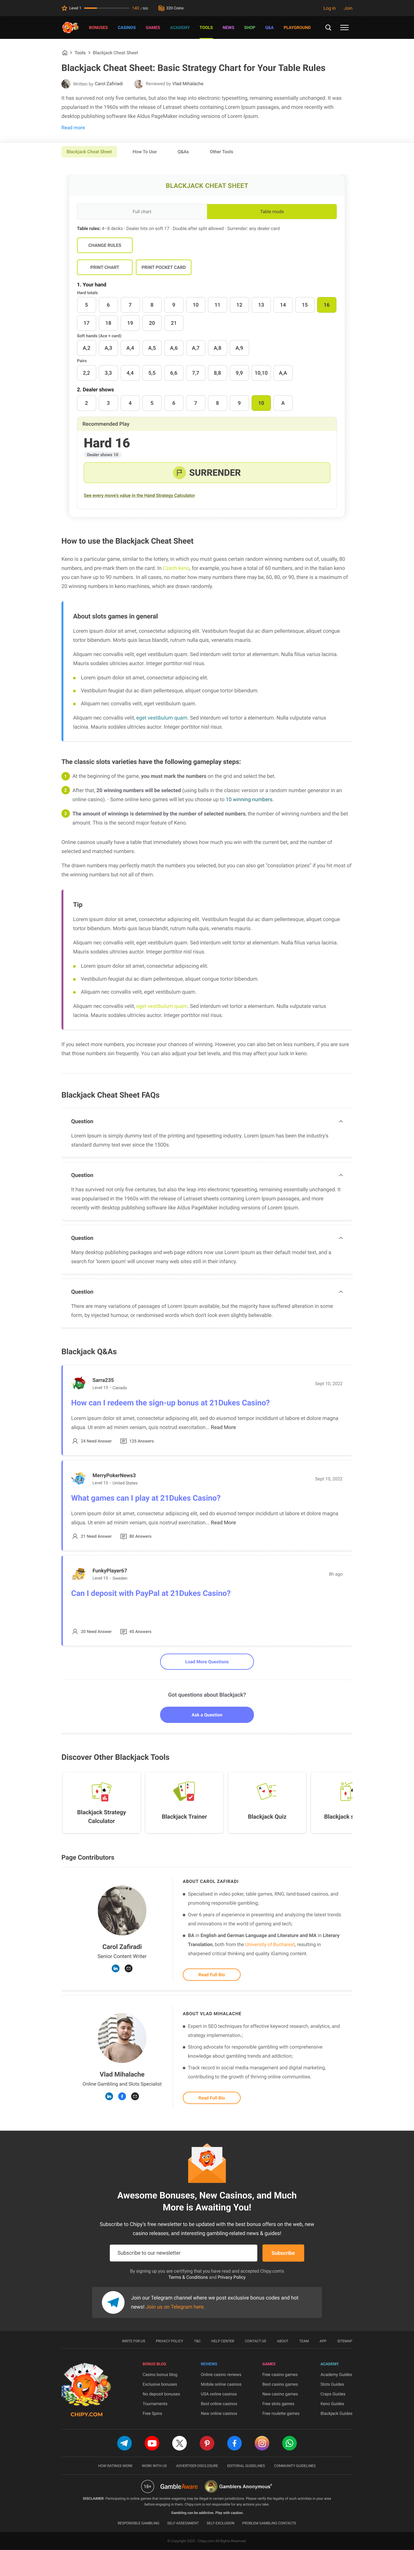
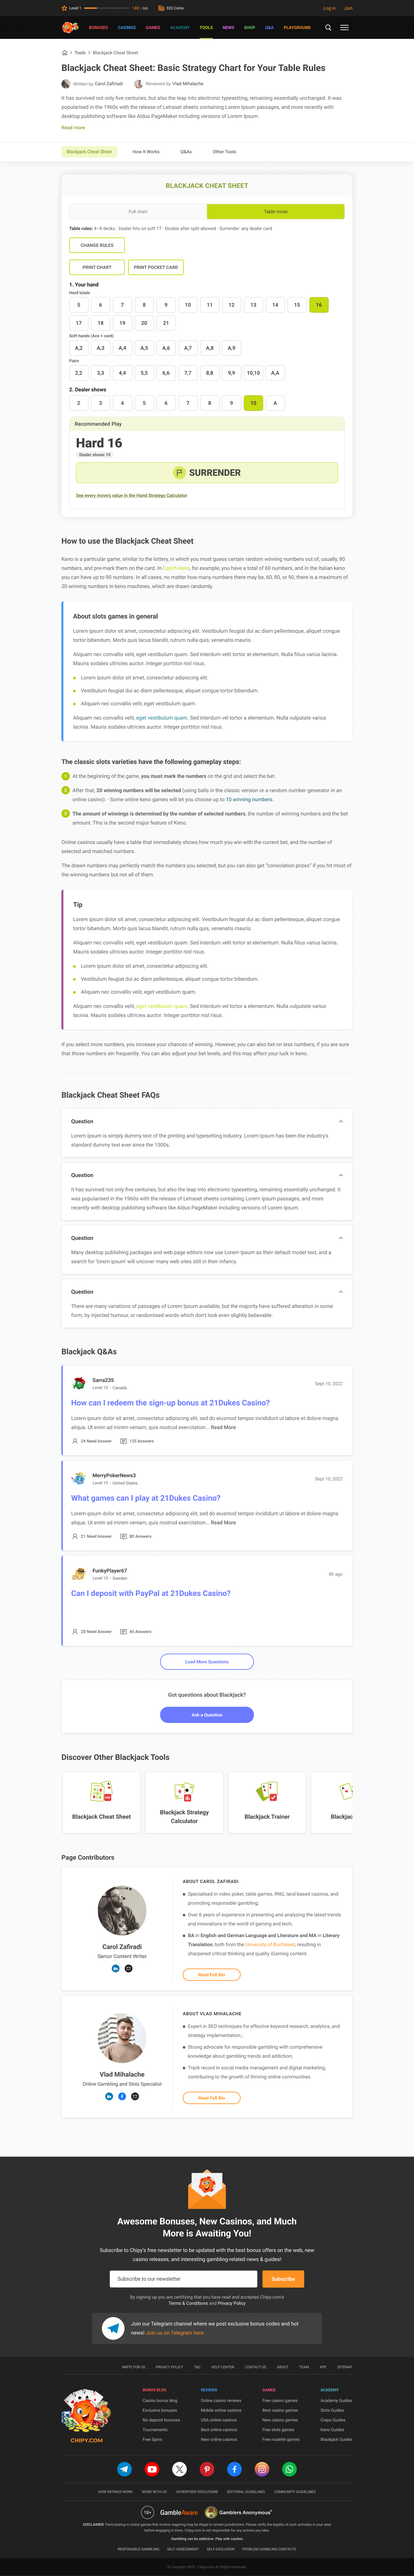
D-084/D-085: full pages on Calculator page template (4 PNGs re-exported), visual-spec §7, BFC-55465 draft = live Jira + 852 vs 900 note + chart columns; S-22 backlog

diff --git a/docs/jira/BFC-55465-tool-layout.html b/docs/jira/BFC-55465-tool-layout.html
@@ -8,7 +8,7 @@
 <hr>
 
 <h3>1. Figma</h3>
-<p>File and page: <a href="https://www.figma.com/design/mRGsMU76MmiKMnzQkwYKgG/Tools---Calculators?node-id=14034-33811">Tools---Calculators, page "-&gt; Blackjack Cheat Sheet"</a> (node 14034:33811). Frame names follow "CS / &lt;screen&gt; / &lt;width&gt;". Link pattern: the same URL with node-id=&lt;id with "-" instead of ":"&gt;.</p>
+<p>File and page: <a href="https://www.figma.com/design/mRGsMU76MmiKMnzQkwYKgG/Tools---Calculators?node-id=14034-33811">Tools---Calculators, page "-&gt; Blackjack Cheat Sheet"</a> (node 14034:33811). Frame names follow "CS / &lt;screen&gt; / &lt;width&gt;".</p>
 <table>
 <tr><th>Screen</th><th>1280</th><th>390</th></tr>
 <tr><td>Full page</td><td><a href="https://www.figma.com/design/mRGsMU76MmiKMnzQkwYKgG/Tools---Calculators?node-id=14047-648859">14047:648859</a></td><td><a href="https://www.figma.com/design/mRGsMU76MmiKMnzQkwYKgG/Tools---Calculators?node-id=14048-648735">14048:648735</a></td></tr>
@@ -21,23 +21,24 @@
 <tr><td>Table mode: hand picked</td><td><a href="https://www.figma.com/design/mRGsMU76MmiKMnzQkwYKgG/Tools---Calculators?node-id=14061-13759">14061:13759</a></td><td><a href="https://www.figma.com/design/mRGsMU76MmiKMnzQkwYKgG/Tools---Calculators?node-id=14061-14223">14061:14223</a></td></tr>
 <tr><td>Table mode: result</td><td><a href="https://www.figma.com/design/mRGsMU76MmiKMnzQkwYKgG/Tools---Calculators?node-id=14061-13883">14061:13883</a></td><td><a href="https://www.figma.com/design/mRGsMU76MmiKMnzQkwYKgG/Tools---Calculators?node-id=14061-14345">14061:14345</a></td></tr>
 <tr><td>Table mode: result, changed for new rules</td><td><a href="https://www.figma.com/design/mRGsMU76MmiKMnzQkwYKgG/Tools---Calculators?node-id=14061-14048">14061:14048</a></td><td><a href="https://www.figma.com/design/mRGsMU76MmiKMnzQkwYKgG/Tools---Calculators?node-id=14061-14508">14061:14508</a></td></tr>
-<tr><td>Table mode: rules collapsed (390 only; 1280 shows the same in the Table-mode frames above)</td><td>-</td><td><a href="https://www.figma.com/design/mRGsMU76MmiKMnzQkwYKgG/Tools---Calculators?node-id=14061-658319">14061:658319</a></td></tr>
-<tr><td>Swipe cue (390 only)</td><td>-</td><td><a href="https://www.figma.com/design/mRGsMU76MmiKMnzQkwYKgG/Tools---Calculators?node-id=14061-658393">14061:658393</a></td></tr>
-<tr><td>Print: full page, A4 portrait</td><td colspan="2"><a href="https://www.figma.com/design/mRGsMU76MmiKMnzQkwYKgG/Tools---Calculators?node-id=14063-15139">14063:15139</a></td></tr>
-<tr><td>Print: pocket card, A4 landscape (2 x A6)</td><td colspan="2"><a href="https://www.figma.com/design/mRGsMU76MmiKMnzQkwYKgG/Tools---Calculators?node-id=14065-16035">14065:16035</a></td></tr>
-<tr><td>Component "CS / Move" (move cell, States incl. Changed 14071:16537–16557)</td><td colspan="2"><a href="https://www.figma.com/design/mRGsMU76MmiKMnzQkwYKgG/Tools---Calculators?node-id=14047-86">14047:86</a></td></tr>
-<tr><td>Component "CS / Pick" (table-mode button)</td><td colspan="2"><a href="https://www.figma.com/design/mRGsMU76MmiKMnzQkwYKgG/Tools---Calculators?node-id=14060-14892">14060:14892</a></td></tr>
+<tr><td>Table mode: rules collapsed (390 only; 1280 shows the same in the Table-mode frames above)</td><td>–</td><td><a href="https://www.figma.com/design/mRGsMU76MmiKMnzQkwYKgG/Tools---Calculators?node-id=14061-658319">14061:658319</a></td></tr>
+<tr><td>Swipe cue (390 only)</td><td>–</td><td><a href="https://www.figma.com/design/mRGsMU76MmiKMnzQkwYKgG/Tools---Calculators?node-id=14061-658393">14061:658393</a></td></tr>
+<tr><td>Print: full page, A4 portrait</td><td><a href="https://www.figma.com/design/mRGsMU76MmiKMnzQkwYKgG/Tools---Calculators?node-id=14063-15139">14063:15139</a></td><td>–</td></tr>
+<tr><td>Print: pocket card, A4 landscape (2 x A6)</td><td><a href="https://www.figma.com/design/mRGsMU76MmiKMnzQkwYKgG/Tools---Calculators?node-id=14065-16035">14065:16035</a></td><td>–</td></tr>
+<tr><td>Component "CS / Move" (move cell, States incl. Changed 14071:16537–16557)</td><td><a href="https://www.figma.com/design/mRGsMU76MmiKMnzQkwYKgG/Tools---Calculators?node-id=14047-86">14047:86</a></td><td>–</td></tr>
+<tr><td>Component "CS / Pick" (table-mode button)</td><td><a href="https://www.figma.com/design/mRGsMU76MmiKMnzQkwYKgG/Tools---Calculators?node-id=14060-14892">14060:14892</a></td><td>–</td></tr>
 </table>
 
 <h3>2. Page structure (top to bottom)</h3>
+<p>The page uses the same template as the <a href="https://www.figma.com/design/mRGsMU76MmiKMnzQkwYKgG/Tools---Calculators?node-id=12386-8654">Blackjack Strategy Calculator page</a>: page background #f9fafa, the top section and in-page nav share one soft shadow (no shadow on the nav itself), "Read more" in olive #859c2e, and 120 px between the page content and the footer (desktop).</p>
 <table>
 <tr><th>#</th><th>Block</th><th>Library component</th><th>On our page (1280 / 390)</th></tr>
 <tr><td>1</td><td>Top section. Breadcrumb "Blackjack Cheat Sheet", H1 "Blackjack Cheat Sheet: Basic Strategy Chart for Your Table Rules".</td><td>"Top section full width": Desktop 12625:94021, Mobile 12625:94028</td><td>14070:16438 / 14070:660152</td></tr>
-<tr><td>2</td><td>In-page nav: "Blackjack Cheat Sheet", "How to use", "Q&amp;As", "Other tools". The component shows them in title case. Same as on the Quiz full page.</td><td>12625:95136 (desktop), 12625:95141 (mobile)</td><td>14070:16495 / 14070:660208</td></tr>
+<tr><td>2</td><td>In-page nav: "Blackjack Cheat Sheet", "How it works", "Q&amp;As", "Other tools". The component shows them in title case. Same as on the Strategy Calculator page.</td><td>12625:95136 (desktop), 12625:95141 (mobile)</td><td>14070:16495 / 14070:660208</td></tr>
 <tr><td>3</td><td>The tool (sections 3 and 4)</td><td>Built for this page (components CS / Move, CS / Pick)</td><td>see section 1</td></tr>
-<tr><td>4</td><td>How to use block: "How to use the Blackjack Cheat Sheet", info and tip callouts, steps, then "Blackjack Cheat Sheet FAQs". Real copy comes from the content brief BFC-55461.</td><td>Rebuilt from the Quiz frames 13996:5606 (desktop) / 13996:6184 (mobile), using Callout box 12625:96904 / 12625:96906, Numbered list 6506:39722, FAQs Widget 12625:104305 / 12625:104310 (see section 7)</td><td>14070:16526 / 14070:660239</td></tr>
-<tr><td>5</td><td>Q&amp;As: existing section, standard state (3 questions + Load More), as on the Quiz page</td><td>Q&amp;As section</td><td>14048:160643 / 14049:649314</td></tr>
-<tr><td>6</td><td>Other Blackjack Tools carousel: Calculator, Trainer, Quiz, Simulator (heading "Discover Other Blackjack Tools")</td><td>Carousel</td><td>14048:160760 / 14049:649432</td></tr>
+<tr><td>4</td><td>How to use block: "How to use the Blackjack Cheat Sheet", info and tip callouts, steps, then "Blackjack Cheat Sheet FAQs". Real copy comes from the content brief BFC-55461.</td><td>Same blocks as the Strategy Calculator page lower content, using Callout box 12625:96904 / 12625:96906, Numbered list 6506:39722, FAQs Widget 12625:104305 / 12625:104310 (see section 7)</td><td>14070:16526 / 14070:660239</td></tr>
+<tr><td>5</td><td>Q&amp;As: existing section, standard state (3 questions + Load More)</td><td>Q&amp;As section</td><td>14048:160643 / 14049:649314</td></tr>
+<tr><td>6</td><td>Other Blackjack Tools carousel: Cheat Sheet, Quiz, Trainer, Calculator, Simulator (heading "Discover Other Blackjack Tools")</td><td>Carousel</td><td>14048:160760 / 14049:649432</td></tr>
 <tr><td>7</td><td>Page contributors</td><td>Authors section</td><td>14048:161371 / 14049:650030</td></tr>
 </table>
 <p>At 390 the Mobile variants are used. No empty slot is shown anywhere (see "v2 note", section 7).</p>
@@ -45,13 +46,14 @@
 <h3>3. Tool layout at 1280</h3>
 <p>Top to bottom inside the tool card:</p>
 <ul>
-<li><b>Shell</b>: same shell as the CHIPY Quiz and Trainer. Card 852 px wide on desktop (804 px content, 24 px padding), 16 px radius, soft shadow, no border. Header band #f9fafa with the title "BLACKJACK CHEAT SHEET" (centred, uppercase, bold, brand olive #859c2e, token brand/lime-text, as the Quiz and Trainer shell titles). The printed title is different: it stays #404040.</li>
-<li><b>Mode switch</b>: "Full chart | Table mode", segmented control, 48 px high, Full chart selected first.</li>
+<li><b>Shell</b>: same shell as the CHIPY Strategy Calculator, Quiz and Trainer. Card uses the full content width, 900 px on desktop (852 px content, 24 px padding), 16 px radius, soft shadow, no border. Header band #f9fafa with the title "BLACKJACK CHEAT SHEET" (centred, uppercase, bold, brand olive #859C2E, same as the Quiz and Trainer).</li>
+<li><b>Mode switch</b>: "Full chart / Table mode", segmented control, 48 px high, Full chart selected first.</li>
 <li><b>Rule panel</b>: 4 controls in 2 columns (Decks, Dealer on soft 17, Double after split, Surrender), label above each, segmented, 48 px high.</li>
 <li><b>Rules sentence</b> ("Table rules: ...") and, when shown, the <b>count line</b> with a DISMISS button (box with a 1 px dark border).</li>
 <li><b>Print buttons</b>: "PRINT CHART" and "PRINT POCKET CARD" side by side. Secondary style: lime 2 px outline, upper case.</li>
 <li><b>Legend</b>: five pills (icon + word) for Hit, Stand, Double, Split, Surrender.</li>
-<li><b>Chart</b>: three tables (Hard hands, Soft hands, Pairs), each with H2, one-line sub-line, then the grid. The grid has a pinned left column "Your hand" (84 px), a header row of 36 px and dealer columns 2 to A. At 1280 all 10 dealer columns are visible (71 px each).</li>
+<li><b>Chart</b>: three tables (Hard hands, Soft hands, Pairs), each with H2, one-line sub-line, then the grid. The grid has a pinned left column "Your hand" (84 px), a header row of 36 px and dealer columns 2 to A. At 1280 all 10 dealer columns are visible.</li>
+<li>Desktop chart: the 10 dealer columns share the width left after the 84 px 'Your hand' column equally (≈76 px each at 900 px). Mobile keeps fixed-width columns with horizontal scroll.</li>
 <li><b>Rows are always 52 px high</b>, whatever the rules, markers or open panels. Each cell: move icon (20 px) above the move word, on the move colour.</li>
 <li><b>Changed marker</b> (after a rules change): dashed 2 px inner outline plus a 12 x 12 px solid triangle in the top-right corner. The cell does not grow. No text label in the cell.</li>
 <li><b>Reason panel</b>: opens inline directly under the table that was tapped (one per table). Light green header with title (e.g. "Hard 16 vs dealer 10") and a CLOSE button. Body: move chip (icon + word), reason, then the note in a separate line when there is one. The tapped cell shows a 3 px dark outline (white on Surrender).</li>
@@ -74,13 +76,14 @@
 <p>Font: Roboto (weights 400 to 900). Full values for every element are in the Figma frames; the main ones are below.</p>
 <table>
 <tr><th>Token</th><th>Value</th><th>Used for</th></tr>
-<tr><td>Heading text</td><td>#404040</td><td>Labels, cell text, chart headings, printed title</td></tr>
-<tr><td>Brand olive (brand/lime-text)</td><td>#859c2e</td><td>Shell title on screen (as Quiz and Trainer), Split cell fill</td></tr>
+<tr><td>Page background</td><td>#f9fafa</td><td>Page behind all sections (same as the Strategy Calculator page)</td></tr>
+<tr><td>Heading text</td><td>#404040</td><td>Labels, cell text, chart headings</td></tr>
 <tr><td>Body text</td><td>#5e6166</td><td>Sub-lines, rules sentence, button text, unselected toggle text</td></tr>
 <tr><td>Ink</td><td>#1a1a1a</td><td>Reason text, count line, step headings</td></tr>
 <tr><td>Surface</td><td>#ffffff / #f9fafa</td><td>Cards, cells / header band, row labels, unselected segment</td></tr>
 <tr><td>Line</td><td>#e6e6e6</td><td>Grid lines, outlines, card borders</td></tr>
 <tr><td>Brand lime</td><td>#c4db11</td><td>Selected segment, button outline, Double</td></tr>
+<tr><td>Brand olive</td><td>#859c2e</td><td>Shell title, Split, "Read more"</td></tr>
 <tr><td>Link green</td><td>#5f7220</td><td>Calculator link</td></tr>
 </table>
 <table>
@@ -94,7 +97,7 @@
 <p>Same icons as the Trainer and Calculator (CS / Move uses the Action-button icons, not the library "2x" and bars set).</p>
 <table>
 <tr><th>Element</th><th>Weight / size</th></tr>
-<tr><td>Shell title (screen, #859c2e)</td><td>700 / 20 px (390: 18), upper case, letter-spacing 0.02em</td></tr>
+<tr><td>Shell title</td><td>700 / 20 px (390: 18), upper case, letter-spacing 0.02em, #859c2e</td></tr>
 <tr><td>Rule labels</td><td>500 / 16</td></tr>
 <tr><td>Segmented text, rules sentence</td><td>400 / 14 (3-option rows: selected 700)</td></tr>
 <tr><td>Buttons</td><td>700 / 14, upper case</td></tr>
@@ -109,30 +112,32 @@
 <ul>
 <li>Every tap target is at least 44 px high and wide: segments, buttons, cells (52 px rows), pick buttons (48 px) and the Calculator link (44 px).</li>
 <li>Colour is never the only signal. Every cell shows the move word and icon. Changed cells have a dashed outline and corner triangle and a screen-reader text ("changed for your new rules"). The Recommended Play marker is a text box with a dashed border. The pocket card uses letters.</li>
-<li>Contrast: the shell title is brand olive #859c2e on #f9fafa = 2.96:1. This is below 4.5:1 and was accepted as the brand choice (D-083), the same as the Quiz and Trainer shells. Unselected toggle text is #5e6166 on purpose, because the library grey #757575 is only 4.41:1 (see section 7).</li>
+<li>Contrast: the shell title uses the brand olive #859C2E on #f9fafa (2.96:1), the same as the other CHIPY tool shells; this is an accepted brand choice. Chart headings #404040 on #f9fafa = 9.9:1. Unselected toggle text is #5e6166 on purpose, because the library grey #757575 is only 4.41:1 (see section 7).</li>
 <li>Focus ring: 3 px #404040 inside the control. On Surrender cells it is white, because dark on dark is invisible.</li>
 <li>The icons are decoration only (hidden from screen readers). The word carries the meaning.</li>
 </ul>
 
 <h3>7. Notes for the design-system owner</h3>
-<p>These are not part of the Cheat Sheet build. They are issues found in the library while designing it (decision D-072).</p>
+<p>These are not part of the Cheat Sheet build. They are issues found in the library while designing it.</p>
 <ul>
 <li><b>In-page nav</b> items are 35 px high. Below the 44 px target.</li>
 <li><b>Breadcrumb</b> targets are 15 to 16 px high.</li>
 <li><b>"Read more"</b> is 26 px high.</li>
 <li><b>Segmented control, inactive label</b> is #757575 on #f9fafa = 4.41:1, just under 4.5:1. The Cheat Sheet uses #5e6166 instead.</li>
-<li><b>Shell title</b>: brand olive #859c2e on #f9fafa is 2.96:1 in the Quiz, Trainer and Cheat Sheet shells. Kept as the brand look (D-083). Worth a review of the olive text token.</li>
+<li><b>Tool shell title</b> in brand olive #859C2E on #f9fafa is 2.96:1 on all CHIPY tool shells, just under the 3:1 minimum for large bold text.</li>
 </ul>
-<p><b>Proposal (D-073):</b> make "Lower content" a real library component with a Desktop and a Mobile variant. It is the block with How to use, info and tip callouts, steps and FAQs (today Quiz 13996:5606 and 13996:6184). Every tool page needs it, and today it is a one-off block on the Quiz page, so for this page it was rebuilt from those frames.</p>
-<p><b>v2 note:</b> "Learn this chart" (memory rules) is planned directly below the tool. No slot is rendered at launch (D-070, D-075). The page flows from the tool straight to How to use.</p>
+<p><b>Proposal:</b> make "Lower content" a real library component with a Desktop and a Mobile variant. It is the block with How to use, info and tip callouts, steps and FAQs. Every tool page needs it, and today it is rebuilt by hand on each page.</p>
+<p><b>v2 note:</b> "Learn this chart" (memory rules) is planned directly below the tool. No slot is rendered at launch. The page flows from the tool straight to How to use.</p>
 
 <h3>8. Differences between prototype and Figma (accepted)</h3>
 <ul>
 <li>Font: the prototype is one offline file and does not download Roboto. Where Roboto is not installed it uses the system font, so some lines are a little wider and a few blocks are 15 to 70 px different in height.</li>
-<li>Row labels in the chart show the engine text with a hyphen ("5-7", "18-21"). The reason panel title uses an en dash ("Hard 18–21"). Strings are not changed (D-076).</li>
+<li>Row labels in the chart show the engine text with a hyphen ("5-7", "18-21"). The reason panel title uses an en dash ("Hard 18–21"). Strings are not changed.</li>
 <li>The dashed outline of changed cells uses the browser's default dash pattern, so it looks slightly bolder than Figma.</li>
 <li>Print, full page: rows are 6 mm in the prototype (19 pt in Figma) so the page fits one Letter sheet.</li>
 <li>Unselected toggle text is #5e6166 in the prototype and in this task's tokens (the Figma frames show the library #757575, see section 7).</li>
+<li>The prototype shows the tool only; the page around it (top section, nav, lower content, etc.) is defined by the Figma full-page frames.</li>
+<li>The tool-only Figma frames and the HTML prototype show the tool at 852 px. The full-page frames and this spec are the source of truth: the tool shell is 900 px (852 content + 24 px padding each side).</li>
 </ul>
 
 <h3>Developer notes</h3>
@@ -157,7 +162,9 @@
 <h2>Acceptance Criteria</h2>
 <ul>
 <li>At 1280 and at 390 the page and the tool match the Figma frames in section 1: order, spacing, colours, type and move palette. Differences listed in section 8 are accepted.</li>
+<li>The page uses the Strategy Calculator page template: #f9fafa background, one shared shadow under the top section and in-page nav, olive "Read more", nav label "How it works".</li>
 <li>The page has the order and components from section 2, with no empty slot.</li>
+<li>On desktop the tool shell is the full 900 px content width.</li>
 <li>At 390 the page never scrolls sideways. Only each chart scrolls inside its own box, with "Your hand" pinned.</li>
 <li>At 390 each chart shows "Swipe for dealer 6–A" and the right fade while columns are hidden, and hides both at the end of the scroll. Neither shows at 1280.</li>
 <li>Chart rows are 52 px high in every state: default, rules changed, panel open, 36 rule sets.</li>
@@ -166,7 +173,7 @@
 <li>The reason panel opens directly under its table and shows the title, the move chip, the reason, and the note on its own line only when there is one.</li>
 <li>Table mode, empty, hand picked, result and result changed frames are matched. At 1280 and 390 the rules are folded behind "CHANGE RULES".</li>
 <li>All tap targets are at least 44 px. The focus ring is visible on every control, white on Surrender cells.</li>
-<li>The shell title on screen is brand olive #859c2e (as the Quiz and Trainer shells). Chart headings and labels are #404040. Unselected toggle text is #5e6166.</li>
+<li>The shell title is brand olive #859C2E. Chart headings are #404040. Unselected toggle text is #5e6166.</li>
 <li>Print, full page: one page on A4 and on US Letter, portrait, centred, title #404040, grid 0.75 pt #5e6166, no on-screen controls.</li>
 <li>Print, pocket card: one landscape sheet on A4 and on US Letter, two A6 panels side by side with a dashed fold line, centred, letters readable in black and white.</li>
 <li>The changed markers and count line never appear in print.</li>

diff --git a/docs/figma/visual-spec.md b/docs/figma/visual-spec.md
@@ -65,12 +65,12 @@ Changed cell (State=Changed): `outline: 2px dashed <colour>; outline-offset: -2p
 | "Changed for your new rules" marker | 700 / 14 | #1a1a1a | |
 
 ## 3. Sizes and spacing (1280)
-- **Shell**: width 852 (content 804), background #fff, radius 16, `box-shadow: 0 -1px 20px 2px rgba(0,0,0,.10)`, no border. Header band #f9fafa, padding 24 20 20 20. Body padding 24, gap 20 between blocks.
+- **Shell**: tool-only frames and prototype: width 852 (content 804); on the page 900 (content 852) is the truth, see §7 (D-085). background #fff, radius 16, `box-shadow: 0 -1px 20px 2px rgba(0,0,0,.10)`, no border. Header band #f9fafa, padding 24 20 20 20. Body padding 24, gap 20 between blocks.
 - **Rule panel**: 2 columns, column gap 20, row gap 16; label → control gap 8.
 - **Segmented controls**: height 48, radius 6, `1px solid #e6e6e6` (inside), segments equal width, no gaps; selected fill #c4db11, unselected #f9fafa; option padding 12 16 (3-option rows: padding 0 8).
 - **Buttons** (secondary): height 48, padding 16 24, `2px solid #c4db11`, radius 6, transparent fill, gap 10 between print buttons.
 - **Legend**: wrap, gap 10 (row gap 8). Pill: height 32, padding 5 10 5 6, gap 6, radius 999, fill per move; Hit pill `1px solid #e6e6e6`.
-- **Chart box**: `border: 1px solid #e6e6e6`, radius 12, overflow hidden; grid lines 1px #e6e6e6 (cells separated by 1px). Pinned column 84px. Header row 36px. Body rows **52px always**. Dealer columns at 1280: 71px (84 + 1 + 10×71 + 9 = 804). Header/row-label cells #f9fafa. Cell: icon 20 above word, gap 2, side padding 2. Section gap between charts 28; H2 → sub 4, sub → box 14 (390: sub → swipe cue 4, cue → box 10).
+- **Chart box**: `border: 1px solid #e6e6e6`, radius 12, overflow hidden; grid lines 1px #e6e6e6 (cells separated by 1px). Pinned column 84px. Header row 36px. Body rows **52px always**. Dealer columns at 1280: 71px in the 852 shell (84 + 1 + 10×71 + 9 = 804); in the 900 shell they share the width after the 84px column equally (≈75.8px). 390 keeps fixed columns + scroll. Header/row-label cells #f9fafa. Cell: icon 20 above word, gap 2, side padding 2. Section gap between charts 28; H2 → sub 4, sub → box 14 (390: sub → swipe cue 4, cue → box 10).
 - **Reason panel**: `1px solid #e6e6e6`, radius 12. Head: fill #b4ca09 @15%, padding 8 8 8 16, gap 12 (title + Close button). Body: padding 14 16 16 16, gap 12. Move chip: radius 999, fill #c4db11 @20%, `1px solid #c4db11`, padding 6 14 6 8, gap 10; icon circle holds a 22px icon.
 - **Count line box (diff note)**: #fff, `1px solid #1a1a1a`, radius 8, padding 6 8 6 14, gap 12 (text + Dismiss button).
 - **Table mode**: pick area gap 18 between steps; step heading → groups gap 8; group label → grid gap 6; pick grid wrap, gap 8. Pick button 60×48 (390: 62×48), radius 8, `1px solid rgba(0,0,0,.18)`, #fff; selected #c4db11. "Change rules" = secondary button.
@@ -86,6 +86,17 @@ Page side margin 8 → shell 374 wide; body padding 24 16 16 16; title 18. Rule 
 ## 6. Icons
 Same glyphs as Trainer/Calculator (Figma local "Icons" set; `prototype/src/icons`): Hit = action-hit (pointer click), Stand = action-stand (open hand), Double = action-double (two vertical bars), Split = action-split (↔ arrows), Surrender = action-surrender (flag). Colour = the move's text colour.
 Sizes: chart cell 20, legend pill 20, reason chip 22, Recommended Play circle 26, print legend 16, print cell 9; pocket card uses letters, no icons.
+
+## 7. Page template (full-page frames, D-084)
+Full page 1280 14047:648859 / 390 14048:648735 and Table mode 14071:660225 / 14071:661008 follow the Strategy Calculator page template (Figma 12386:8654). Page only, not the tool.
+- Page background #f9fafa behind all sections.
+- Top section + in-page nav share one soft shadow (no shadow on the nav itself). Nav labels: "Blackjack Cheat Sheet", "How it works", "Q&As", "Other tools".
+- "Read more" in olive #859c2e.
+- 120 px between the page content and the footer (desktop).
+- Mobile: Authors section padding 8 px.
+- Desktop: the tool shell uses the full 900 px content column (852 content + 24 px padding each side); the 10 dealer columns share the width after the 84 px "Your hand" column equally (≈76 px). This is the source of truth. The tool-only frames and the prototype still show 852 (§3), accepted difference until S-22 (D-085).
+- Carousel order: Cheat Sheet, Quiz, Trainer, Calculator, Simulator.
+- No Embed button: legacy feature, hidden in the Calculator/Quiz templates, not part of this page (D-072, D-084).
 
 ## Not extracted / notes
 - Hover/focus states are not drawn in Figma; keep the prototype's 3px #404040 focus ring (white on Surrender).

diff --git a/docs/decisions.md b/docs/decisions.md
@@ -87,3 +87,5 @@ Format: ID · date · decision · by. Newest at the bottom. Superseded rows move
 | D-081 | 2026-10-05 | G5: S-15 drafts approved after two fixes (D-082); Cowork writes the BFC-55465/66 descriptions from docs/jira/*.html (AGENTS §9 unchanged); Marius attaches the handoff zip to BFC-55462 | Marius |
 | D-082 | 2026-10-05 | Final URLs: page https://chipy.com/tools/blackjack-cheat-sheet (D-043 closed); Calculator link https://chipy.com/tools/blackjack-calculator (live Hand Strategy Calculator, as in BFC-55468) in the Jira drafts and the prototype (replaces D-061 placeholder). The prototype's no-network rule allows exactly this one navigational <a href>; still no external src/link/script/fetch. Rebuild, re-run QA, rebuild handoff zip, then G6 | Marius |
 | D-083 | 2026-10-06 | Tool shell title colour = brand olive #859C2E (as Quiz/Trainer shells), bound to the brand olive token where one exists; supersedes the F2 fix (D-068/D-072) for the shell title only — 2.96:1 on #f9fafa accepted as brand choice. Print title stays #404040. Figma (all frames with the shell, 1280 + 390), prototype, visual-spec, BFC-55465 draft; rebuild, QA, zip (same name), Codex, G6 | Marius |
+| D-084 | 2026-10-06 | Figma full-page frames (1280/390, chart + table mode) aligned to the Strategy Calculator page template (by Cowork): page bg #f9fafa; top section + in-page nav share one shadow; nav label "How it works"; "Read more" olive #859c2e; 120px above footer (desktop); mobile Authors padding 8px; desktop tool shell full 900px. Embed button is a legacy feature (hidden in Calculator/Quiz templates) and not part of the Cheat Sheet page (confirms D-072). Re-export 4 full-page PNGs, update visual-spec + BFC-55465 draft (copy live Jira wording), rebuild zip (same name), G6 (docs only, D-031). Re-export pixel changes are expected (Cowork Figma fixes: tool card shadow + rounded corners show with wrapper clipping off, nav shadow shows, chart columns stretch to fill the box); re-exported PNGs kept | Marius |
+| D-085 | 2026-10-06 | Approve C: tool shell 852 (tool-only Figma frames + prototype) vs 900 (full-page frames + BFC-55465). Today docs only: BFC-55465 §8 accepted difference "The tool-only Figma frames and the HTML prototype show the tool at 852 px. The full-page frames and this spec are the source of truth: the tool shell is 900 px (852 content + 24 px padding each side)."; §3 chart: 10 dealer columns share the width left after the 84 px "Your hand" column equally (≈76 px at 900), mobile keeps fixed columns + scroll. Backlog: S-22 widen tool-only frames + prototype to 900 (not today) | Marius |

diff --git a/docs/status.md b/docs/status.md
@@ -1,6 +1,6 @@
 # Status
 
-Last updated: 2026-10-05 (home-mac-mini, Claude Code CLI)
+Last updated: 2026-10-06 (home-mac-mini, Claude Code CLI)
 
 ## Done
 - Sprint 1 (engine) S-01…S-06 + S-17 pushed (ddb2a58); details in docs/archive/sprint-1.md.
@@ -10,7 +10,7 @@ Last updated: 2026-10-05 (home-mac-mini, Claude Code CLI)
 - `npm run check`: 118/118 pass. Prototype: prototype/index.html (`open prototype/index.html`).
 
 ## Figma frames (file mRGsMU76MmiKMnzQkwYKgG, page 14034:33811; PNGs in docs/figma/)
-- Full page 1280 14047:648859 · 390 14048:648735 (D-073 rework). Components: CS / Move 14047:86, CS / Pick 14060:14892.
+- Full page 1280 14047:648859 · 390 14048:648735 (D-073 rework; Calculator page template D-084, shell 900 vs tool frames 852 D-085). Components: CS / Move 14047:86, CS / Pick 14060:14892.
 - Default chart 14056:6031 / 14056:6546 · Reason panel 14058:7935 / 14058:8815 · Reason note 14058:654495 / 14058:656063
 - Rules changed 14060:11755 / 14060:13320 · TM empty 14060:14893 / 14060:15510 · TM hand 14061:13759 / 14061:14223
 - TM result 14061:13883 / 14061:14345 · TM result changed 14061:14048 / 14061:14508 (1280 / 390)
@@ -19,7 +19,8 @@ Last updated: 2026-10-05 (home-mac-mini, Claude Code CLI)
 
 ## Next
 - S-21 visual sync done (G3 D-080), pushed 4025487. Handoff zip handoff/blackjack-cheat-sheet-handoff-2026-10-05.zip (git-ignored).
-- S-15 approved (G5 D-081): Cowork writes BFC-55465/66 from docs/jira/*.html; Marius attaches the zip. Final URLs D-082 (page + Calculator link in prototype). QA 12/12.
+- D-083 shell title olive; D-084 page template (4 full-page PNGs re-exported, visual-spec §7, BFC-55465 draft = live Jira); D-085: Marius pastes §8 line + chart column line into BFC-55465. Zip rebuilt (same name).
+- S-22 (widen tool frames + prototype to 900) approved, not scheduled.
 - Card next session: refresh .claude/agents/ui-dev.md for D-050/D-053/D-056 (housekeeper).
 - work-lenovo clone pending.
 
@@ -35,4 +36,4 @@ Last updated: 2026-10-05 (home-mac-mini, Claude Code CLI)
 - chart.js freezing STRATEGY_TABLE makes it read-only for code loaded after it (intended, D-036).
 
 ## Files to attach in Jira
-- On BFC-55462: handoff/blackjack-cheat-sheet-handoff-2026-10-05.zip (prototype, engine, snapshot, docs incl. figma + qa).
+- On BFC-55462 + Drive: handoff/blackjack-cheat-sheet-handoff-2026-10-05.zip (rebuilt 2026-10-06 for D-084/D-085; re-attach).

diff --git a/docs/backlog.md b/docs/backlog.md
@@ -45,6 +45,7 @@ Defaults on load: 4–8 decks · dealer hits soft 17 · DAS allowed · surrender
 | ID | Story (one output) | Agent | Goal | Gate | State |
 |---|---|---|---|---|---|
 | S-21 | Prototype full visual sync with the signed-off Figma (D-076): tokens, palette, typography/spacing, buttons, 52px changed marker, light outline on dark cells, print styling; tool only; no logic change; QA re-run + visual check vs Figma → G3 visual | ui-dev + qa-tester | 2 | G3 | done (G3 D-080) |
+| S-22 | Widen the tool-only 1280 Figma frames and the prototype shell to 900 px (852 content); dealer columns share the width equally; QA re-run + side-by-sides (D-085) | figma-designer + ui-dev + qa-tester | 2 | G3/G4 | approved (D-085), not scheduled |
 
 ## v2 (next version, not now)
 - "Learn this chart": memory rules for the player's chart (D-051).
